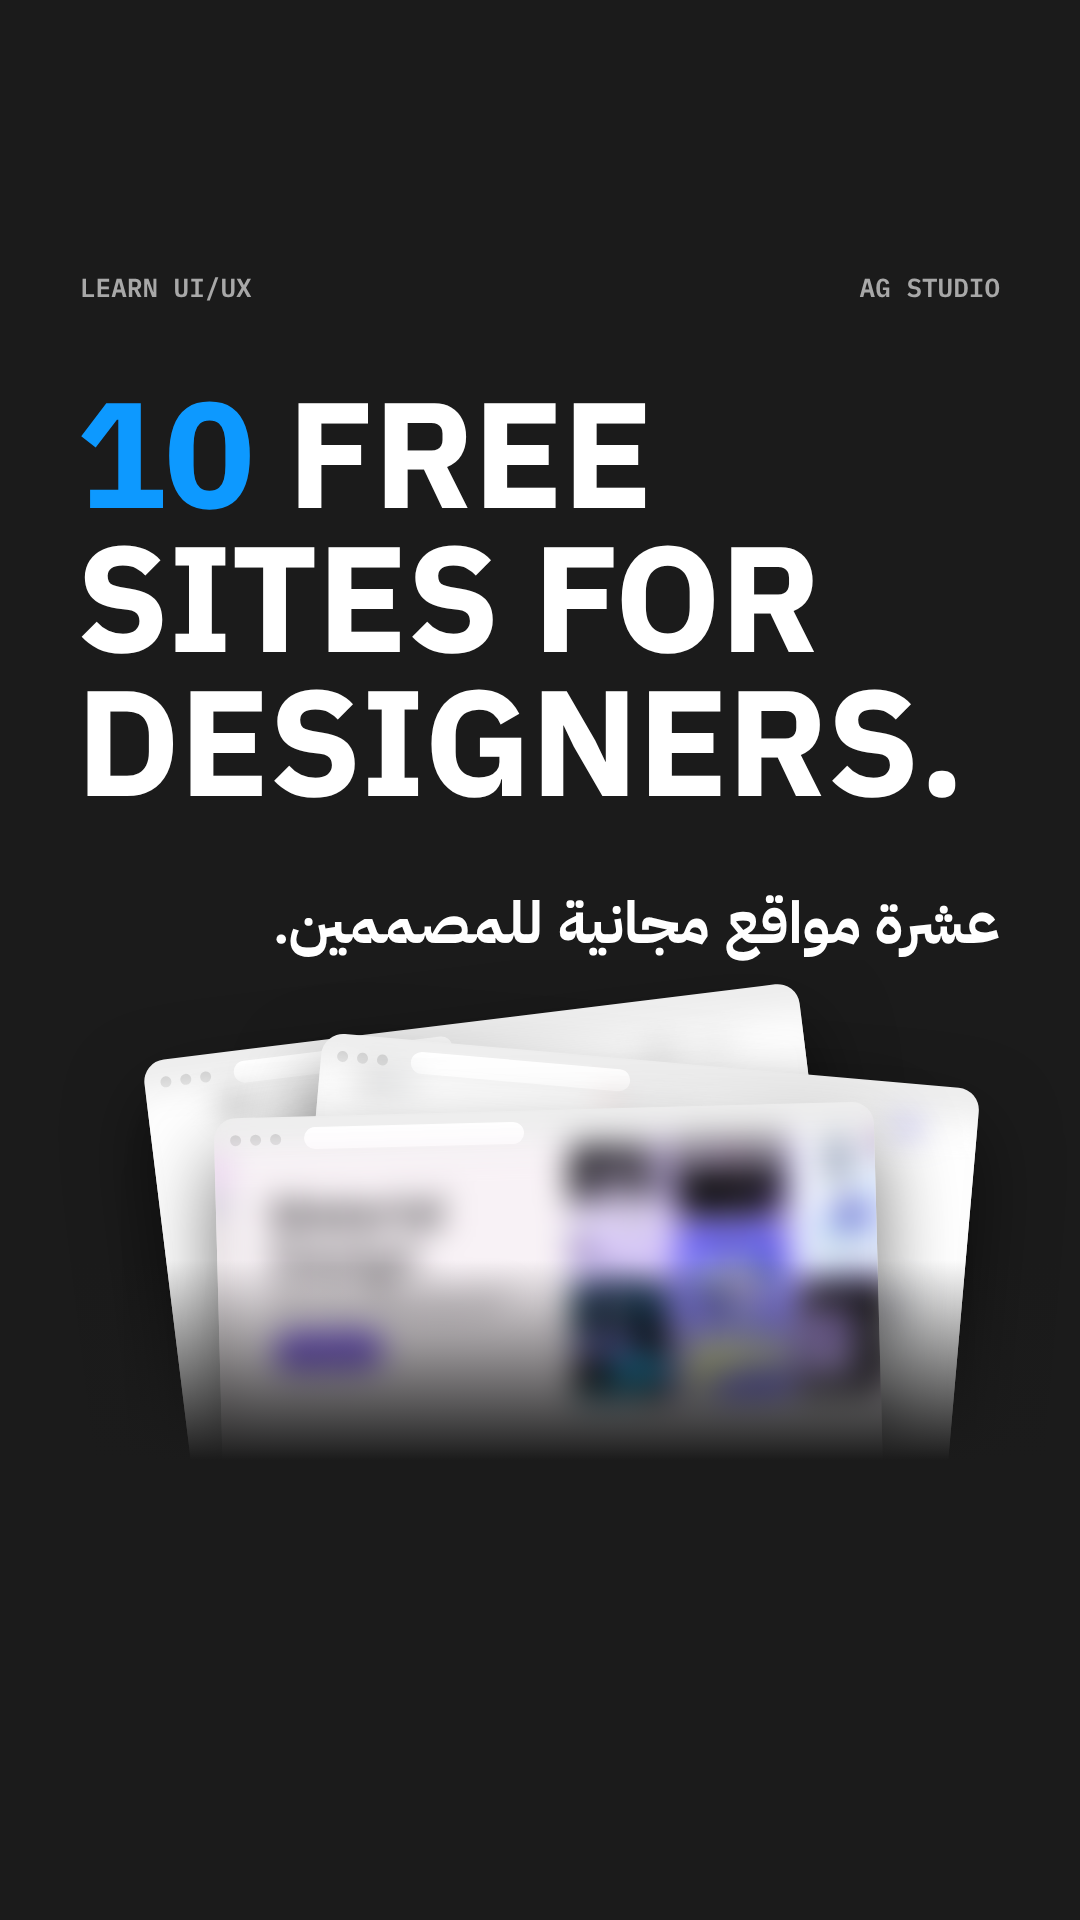
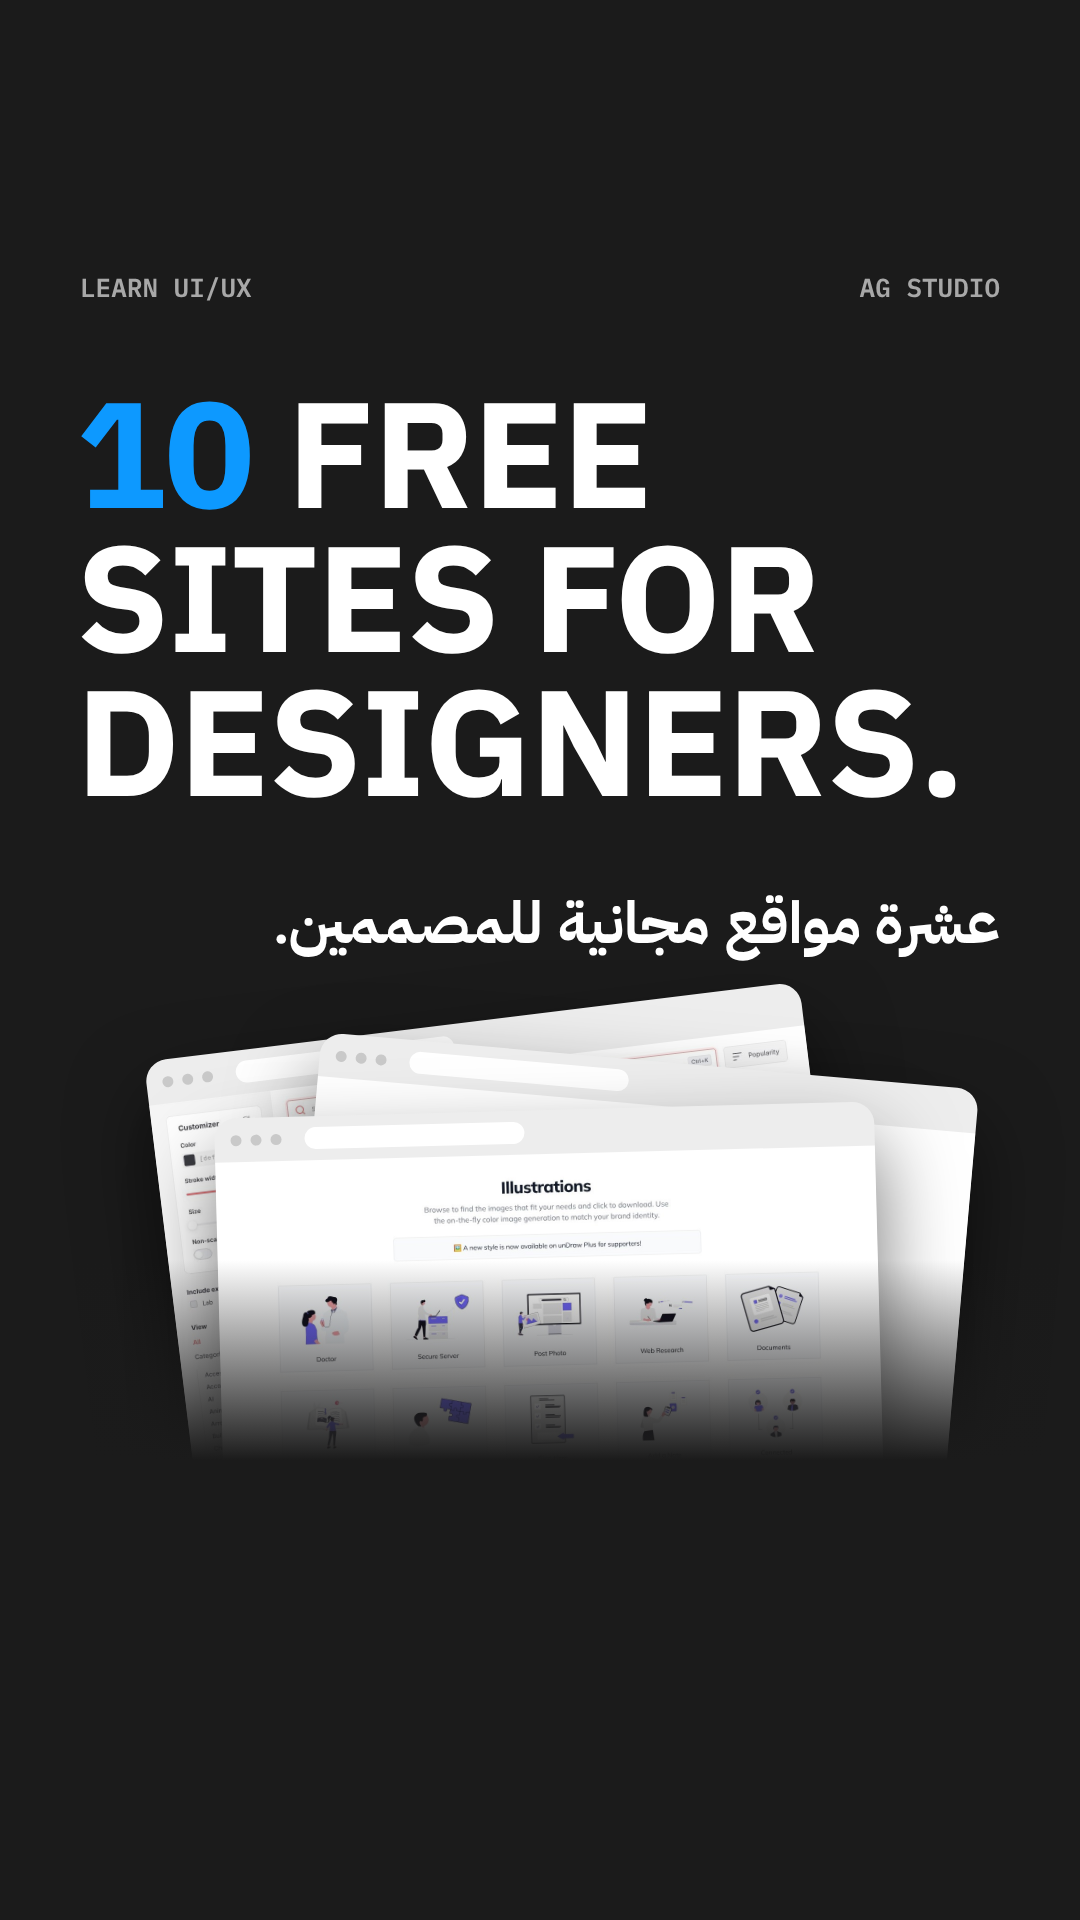
Free resources : couvertures avec captures nettes, recadrées sous l'en-tête (pas de nom visible)
Claude-Session: https://claude.ai/code/session_01FBPTB3jeqhR1KyoC7UCUXC

Changed region(s): [[0.1528, 0.5625, 0.825, 0.75], [0.1528, 0.6562, 0.1833, 0.7188], [0.3972, 0.7188, 0.4278, 0.75]]

diff --git a/carousels/resources/cover-carousel.html b/carousels/resources/cover-carousel.html
@@ -11,12 +11,12 @@
 .win .bar{height:44px;display:flex;align-items:center;gap:9px;padding:0 16px}
 .win .dot{width:11px;height:11px;border-radius:6px;background:#C9C9C9}
 .win .url{margin-left:14px;width:220px;height:22px;border-radius:11px;background:#fff}
-.win img{display:block;width:100%;filter:blur(15px) saturate(1.05);transform:scale(1.06)}
+.win img{display:block;width:100%}
 .pill{display:inline-block;background:#0D99FF;color:#fff;font:600 28px Mono;padding:14px 28px;border-radius:40px}
 </style></head><body><div class="s" id="c" style="width:1080px;height:1920px">
  <div class="mono" style="position:absolute;top:270px;left:80px">LEARN UI/UX</div><div class="mono" style="position:absolute;top:270px;right:80px">AG STUDIO</div>
  <div class="h" style="position:absolute;top:380px;left:76px;font-size:150px"><span style="color:#0D99FF">10</span> FREE<br>SITES FOR<br>DESIGNERS.</div>
  <div class="ar" style="position:absolute;top:880px;right:80px;font-size:58px">عشرة مواقع مجانية للمصممين.</div>
- <div style="position:absolute;top:960px;left:0;width:1080px;height:500px;overflow:hidden"><div class="win" style="left:170px;top:60px;width:660px;transform:rotate(-7deg);z-index:1"><div class="bar"><span class="dot"></span><span class="dot"></span><span class="dot"></span><span class="url"></span></div><img src="../../resources-sites/shots/mobbin.jpg"></div><div class="win" style="left:300px;top:100px;width:660px;transform:rotate(5deg);z-index:2"><div class="bar"><span class="dot"></span><span class="dot"></span><span class="dot"></span><span class="url"></span></div><img src="../../resources-sites/shots/undraw.jpg"></div><div class="win" style="left:220px;top:150px;width:660px;transform:rotate(-1.5deg);z-index:3"><div class="bar"><span class="dot"></span><span class="dot"></span><span class="dot"></span><span class="url"></span></div><img src="../../resources-sites/shots/material.jpg"></div><div style="position:absolute;left:0;right:0;bottom:0;height:200px;background:linear-gradient(rgba(27,27,27,0),#1B1B1B);z-index:4"></div></div>
+ <div style="position:absolute;top:960px;left:0;width:1080px;height:500px;overflow:hidden"><div class="win" style="left:170px;top:60px;width:660px;transform:rotate(-7deg);z-index:1"><div class="bar"><span class="dot"></span><span class="dot"></span><span class="dot"></span><span class="url"></span></div><img src="../../resources-sites/shots/crop-lucide.jpg"></div><div class="win" style="left:300px;top:100px;width:660px;transform:rotate(5deg);z-index:2"><div class="bar"><span class="dot"></span><span class="dot"></span><span class="dot"></span><span class="url"></span></div><img src="../../resources-sites/shots/crop-mobbin.jpg"></div><div class="win" style="left:220px;top:150px;width:660px;transform:rotate(-1.5deg);z-index:3"><div class="bar"><span class="dot"></span><span class="dot"></span><span class="dot"></span><span class="url"></span></div><img src="../../resources-sites/shots/crop-undraw.jpg"></div><div style="position:absolute;left:0;right:0;bottom:0;height:200px;background:linear-gradient(rgba(27,27,27,0),#1B1B1B);z-index:4"></div></div>
  <div style="position:absolute;top:1500px;left:80px;right:80px;display:flex;justify-content:space-between;align-items:center;z-index:5"><span class="pill">SWIPE TO REVEAL →</span><span class="ar" style="font-size:40px">اسحب لتكتشفها</span></div>
 </div></body></html>

diff --git a/carousels/resources/cover-short.html b/carousels/resources/cover-short.html
@@ -11,12 +11,12 @@
 .win .bar{height:44px;display:flex;align-items:center;gap:9px;padding:0 16px}
 .win .dot{width:11px;height:11px;border-radius:6px;background:#C9C9C9}
 .win .url{margin-left:14px;width:220px;height:22px;border-radius:11px;background:#fff}
-.win img{display:block;width:100%;filter:blur(15px) saturate(1.05);transform:scale(1.06)}
+.win img{display:block;width:100%}
 .pill{display:inline-block;background:#0D99FF;color:#fff;font:600 28px Mono;padding:14px 28px;border-radius:40px}
 </style></head><body><div class="s" id="c" style="width:1080px;height:1920px">
  <div class="mono" style="position:absolute;top:270px;left:80px">LEARN UI/UX</div><div class="mono" style="position:absolute;top:270px;right:80px">AG STUDIO</div>
  <div class="h" style="position:absolute;top:380px;left:76px;font-size:150px"><span style="color:#0D99FF">10</span> FREE<br>SITES FOR<br>DESIGNERS.</div>
  <div class="ar" style="position:absolute;top:880px;right:80px;font-size:58px">عشرة مواقع مجانية للمصممين.</div>
- <div style="position:absolute;top:960px;left:0;width:1080px;height:500px;overflow:hidden"><div class="win" style="left:170px;top:60px;width:660px;transform:rotate(-7deg);z-index:1"><div class="bar"><span class="dot"></span><span class="dot"></span><span class="dot"></span><span class="url"></span></div><img src="../../resources-sites/shots/mobbin.jpg"></div><div class="win" style="left:300px;top:100px;width:660px;transform:rotate(5deg);z-index:2"><div class="bar"><span class="dot"></span><span class="dot"></span><span class="dot"></span><span class="url"></span></div><img src="../../resources-sites/shots/undraw.jpg"></div><div class="win" style="left:220px;top:150px;width:660px;transform:rotate(-1.5deg);z-index:3"><div class="bar"><span class="dot"></span><span class="dot"></span><span class="dot"></span><span class="url"></span></div><img src="../../resources-sites/shots/material.jpg"></div><div style="position:absolute;left:0;right:0;bottom:0;height:200px;background:linear-gradient(rgba(27,27,27,0),#1B1B1B);z-index:4"></div></div>
+ <div style="position:absolute;top:960px;left:0;width:1080px;height:500px;overflow:hidden"><div class="win" style="left:170px;top:60px;width:660px;transform:rotate(-7deg);z-index:1"><div class="bar"><span class="dot"></span><span class="dot"></span><span class="dot"></span><span class="url"></span></div><img src="../../resources-sites/shots/crop-lucide.jpg"></div><div class="win" style="left:300px;top:100px;width:660px;transform:rotate(5deg);z-index:2"><div class="bar"><span class="dot"></span><span class="dot"></span><span class="dot"></span><span class="url"></span></div><img src="../../resources-sites/shots/crop-mobbin.jpg"></div><div class="win" style="left:220px;top:150px;width:660px;transform:rotate(-1.5deg);z-index:3"><div class="bar"><span class="dot"></span><span class="dot"></span><span class="dot"></span><span class="url"></span></div><img src="../../resources-sites/shots/crop-undraw.jpg"></div><div style="position:absolute;left:0;right:0;bottom:0;height:200px;background:linear-gradient(rgba(27,27,27,0),#1B1B1B);z-index:4"></div></div>
  
 </div></body></html>

diff --git a/carousels/resources/cover-thumb.html b/carousels/resources/cover-thumb.html
@@ -11,10 +11,10 @@
 .win .bar{height:44px;display:flex;align-items:center;gap:9px;padding:0 16px}
 .win .dot{width:11px;height:11px;border-radius:6px;background:#C9C9C9}
 .win .url{margin-left:14px;width:220px;height:22px;border-radius:11px;background:#fff}
-.win img{display:block;width:100%;filter:blur(15px) saturate(1.05);transform:scale(1.06)}
+.win img{display:block;width:100%}
 .pill{display:inline-block;background:#0D99FF;color:#fff;font:600 28px Mono;padding:14px 28px;border-radius:40px}
 </style></head><body><div class="s" id="c" style="width:1280px;height:720px">
  <div class="h" style="position:absolute;top:150px;left:70px;font-size:100px;z-index:5"><span style="color:#0D99FF">18</span> FREE<br>SITES FOR<br>DESIGNERS.</div>
  <div class="ar" style="position:absolute;top:500px;left:70px;width:620px;text-align:right;font-size:44px">مواقع مجانية للمصممين</div>
- <div class="win" style="left:760px;top:110px;width:470px;transform:rotate(-7deg);z-index:1"><div class="bar"><span class="dot"></span><span class="dot"></span><span class="dot"></span><span class="url"></span></div><img src="../../resources-sites/shots/mobbin.jpg"></div><div class="win" style="left:840px;top:160px;width:470px;transform:rotate(5deg);z-index:2"><div class="bar"><span class="dot"></span><span class="dot"></span><span class="dot"></span><span class="url"></span></div><img src="../../resources-sites/shots/undraw.jpg"></div><div class="win" style="left:790px;top:220px;width:470px;transform:rotate(-1.5deg);z-index:3"><div class="bar"><span class="dot"></span><span class="dot"></span><span class="dot"></span><span class="url"></span></div><img src="../../resources-sites/shots/material.jpg"></div>
+ <div class="win" style="left:760px;top:110px;width:470px;transform:rotate(-7deg);z-index:1"><div class="bar"><span class="dot"></span><span class="dot"></span><span class="dot"></span><span class="url"></span></div><img src="../../resources-sites/shots/crop-lucide.jpg"></div><div class="win" style="left:840px;top:160px;width:470px;transform:rotate(5deg);z-index:2"><div class="bar"><span class="dot"></span><span class="dot"></span><span class="dot"></span><span class="url"></span></div><img src="../../resources-sites/shots/crop-mobbin.jpg"></div><div class="win" style="left:790px;top:220px;width:470px;transform:rotate(-1.5deg);z-index:3"><div class="bar"><span class="dot"></span><span class="dot"></span><span class="dot"></span><span class="url"></span></div><img src="../../resources-sites/shots/crop-undraw.jpg"></div>
 </div></body></html>
